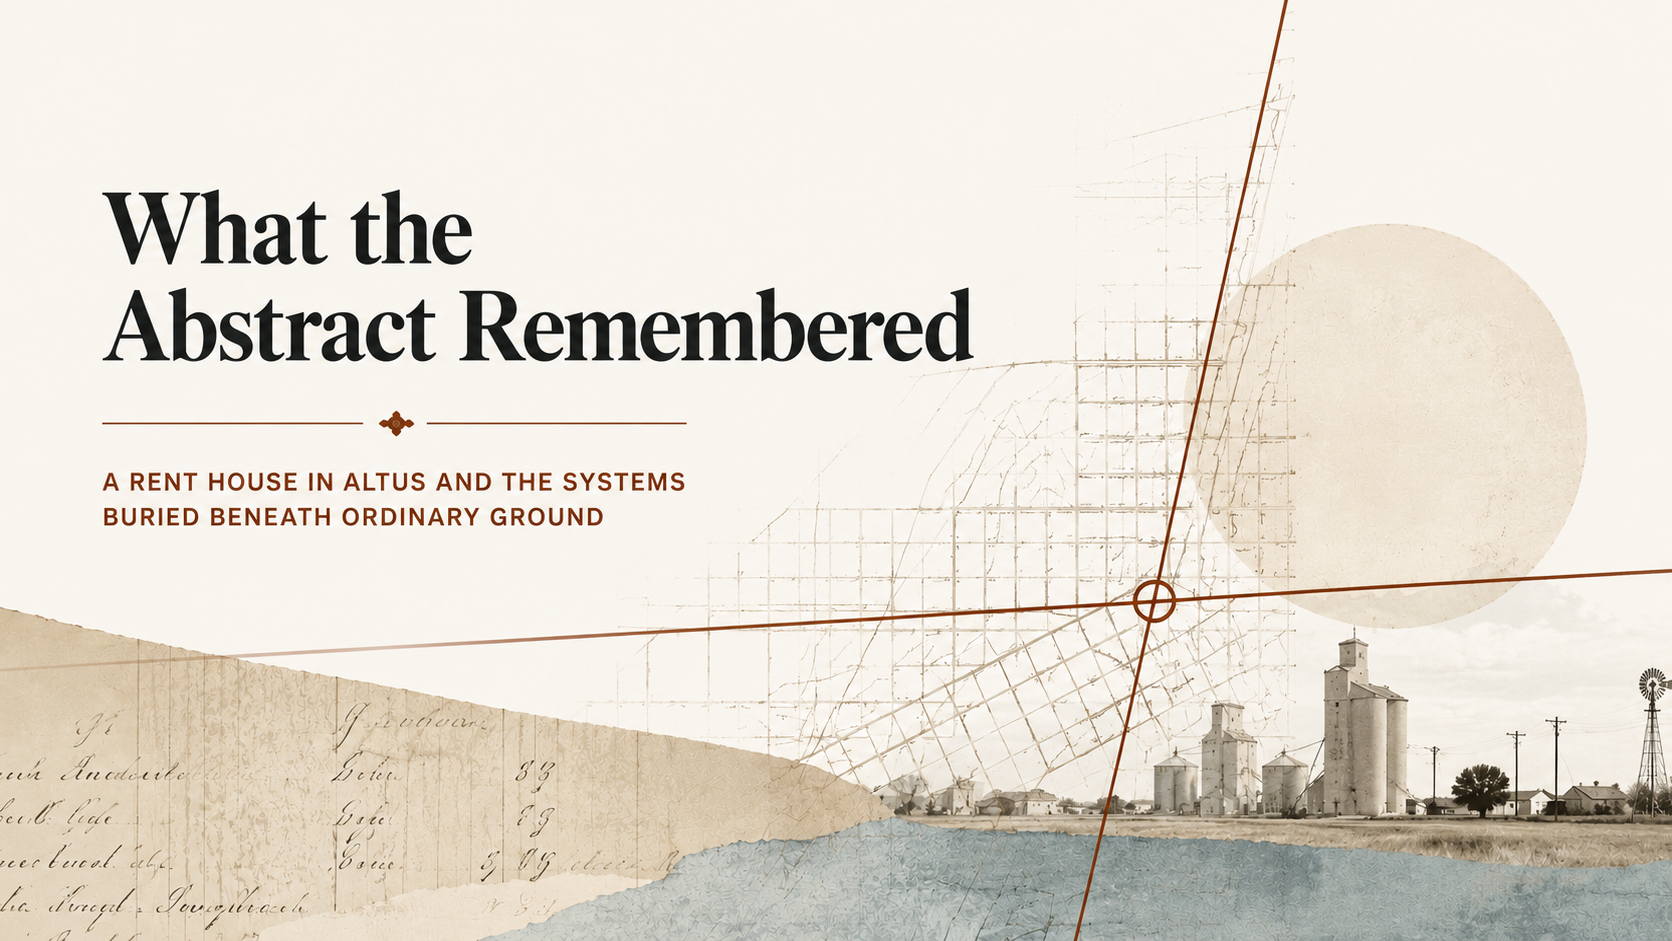
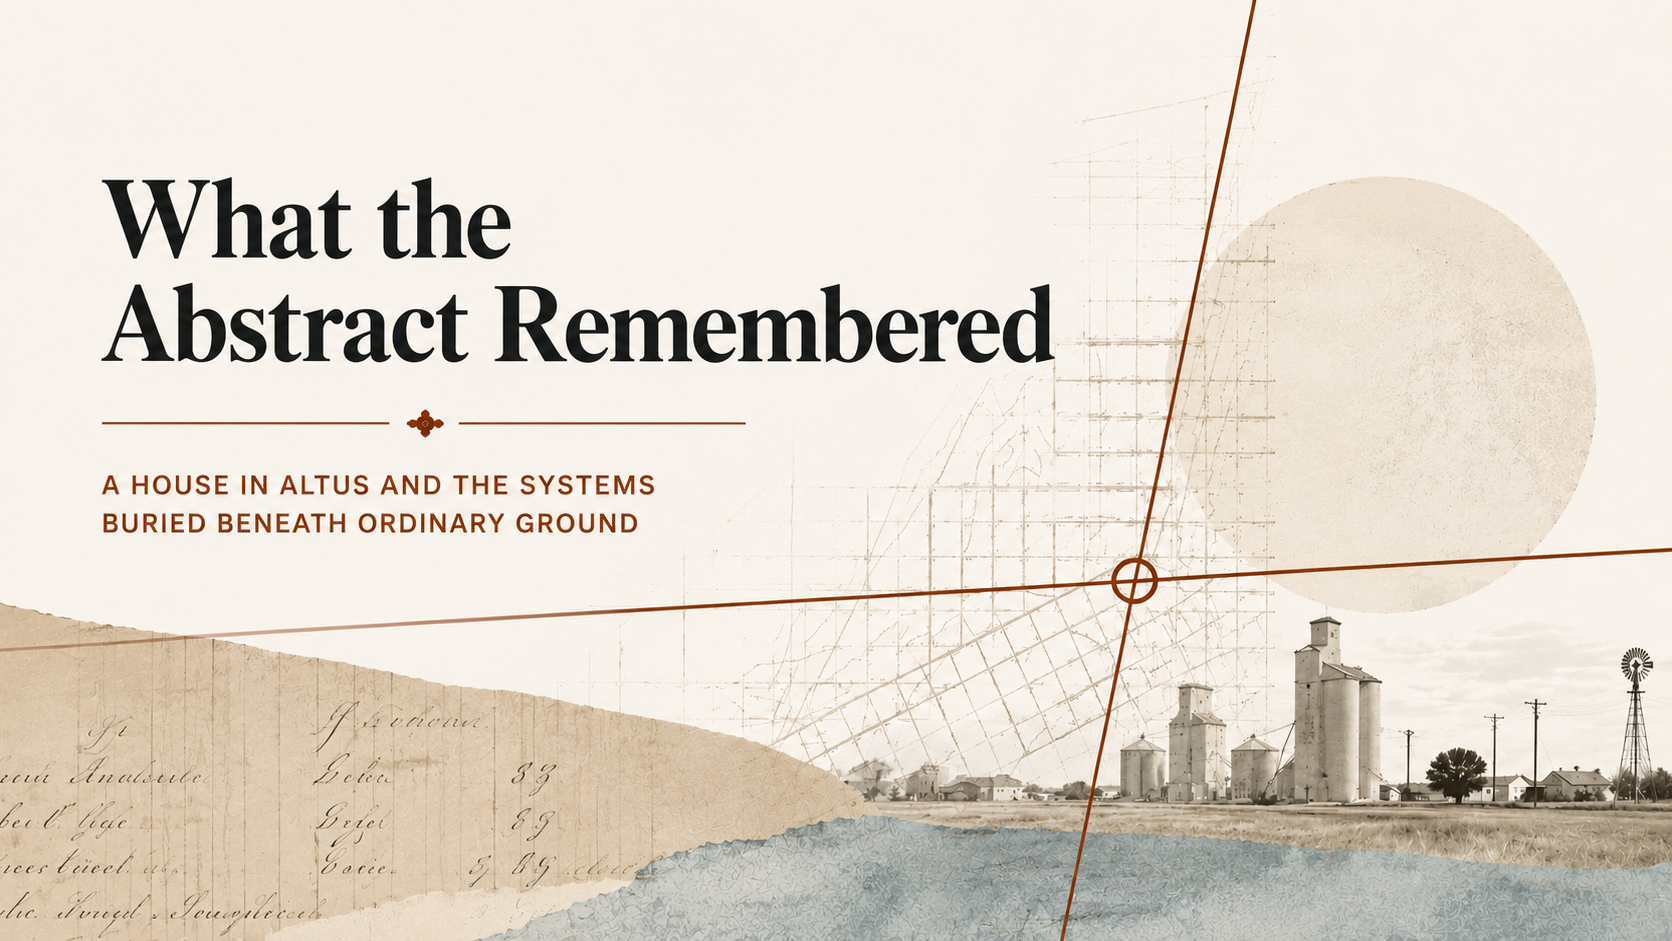
rent house

diff --git a/src/pages/writing/what-the-abstract-remembered.md b/src/pages/writing/what-the-abstract-remembered.md
@@ -2,7 +2,7 @@
 layout: "../../layouts/PublicationLayout.astro"
 title: "What the Abstract Remembered"
 subtitle: "A rent house in Altus and the systems buried beneath ordinary ground"
-description: "A rent house in southwest Oklahoma reveals how governance survives long after the people who wrote it are gone."
+description: "A house in southwest Oklahoma reveals how governance survives long after the people who wrote it are gone."
 pubDate: "2026-12-10"
 heroImage: "/images/writing/what-the-abstract-remembered.png"
 heroAlt: "An aged territorial land abstract layered over a faded Oklahoma street grid and distant grain elevators beneath a storm-dark sky."
@@ -10,7 +10,7 @@ tags: ["Governance", "Infrastructure", "Oklahoma"]
 tier: "tier-1"
 ---
 
-I bought a rent house in Altus, Oklahoma in 1996 for $28,400.
+I bought a house in Altus, Oklahoma in 1996 for $28,400.
 
 Three bedrooms. One bathroom. Around a thousand square feet. I rented it out for three hundred dollars a month, which even then felt less like some grand investment strategy and more like participation in the local rhythm of the town. People still thought in practical terms there. A house was a house. Rent was rent. Most folks were just trying to keep the wheels turning another month.
 
